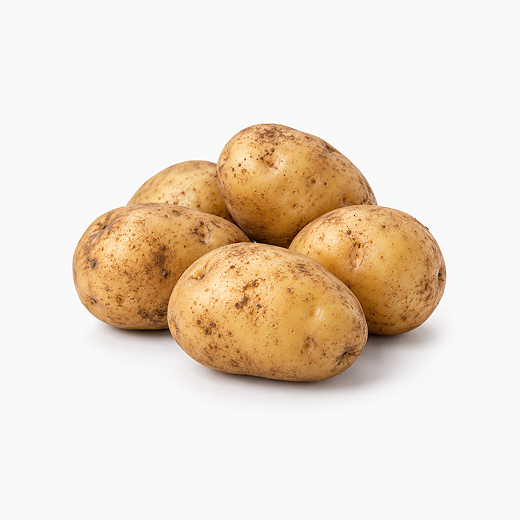
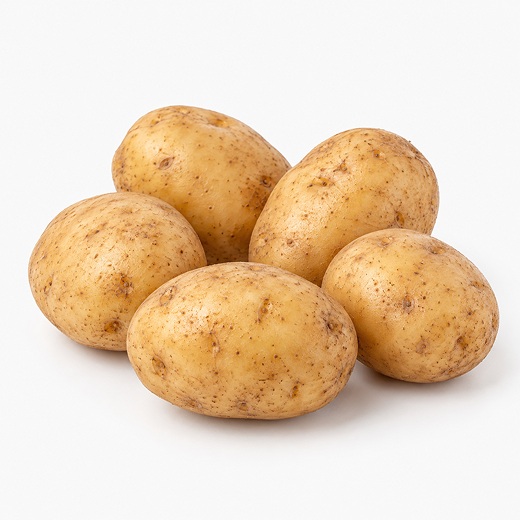
Add selected Figma food photos and image mappings

diff --git a/src/features/produce/produce-images.ts b/src/features/produce/produce-images.ts
@@ -29,6 +29,28 @@ const produceImages: Record<string, number> = {
   딸기: require("../../../assets/images/food/딸기.png"),
   브로콜리: require("../../../assets/images/food/브로콜리.png"),
   상추: require("../../../assets/images/food/상추.png"),
+  양파: require("../../../assets/images/food/양파.png"),
+  마늘: require("../../../assets/images/food/마늘.png"),
+  파: require("../../../assets/images/food/파.png"),
+  배추: require("../../../assets/images/food/배추.png"),
+  열무: require("../../../assets/images/food/열무.png"),
+  멜론: require("../../../assets/images/food/멜론.png"),
+  파프리카: require("../../../assets/images/food/파프리카.png"),
+  부추: require("../../../assets/images/food/부추.png"),
+  갓: require("../../../assets/images/food/갓.png"),
+  오이: require("../../../assets/images/food/오이.png"),
+  무: require("../../../assets/images/food/무.png"),
+  호박: require("../../../assets/images/food/호박.png"),
+  생강: require("../../../assets/images/food/생강.png"),
+  고추: require("../../../assets/images/food/고추.png"),
+  참외: require("../../../assets/images/food/참외.png"),
+  미나리: require("../../../assets/images/food/미나리.png"),
+  수박: require("../../../assets/images/food/수박.png"),
+  고구마: require("../../../assets/images/food/고구마.png"),
+  토마토: require("../../../assets/images/food/토마토.png"),
+  방울토마토: require("../../../assets/images/food/방울토마토.png"),
+  시금치: require("../../../assets/images/food/시금치.png"),
+  가지: require("../../../assets/images/food/가지.png"),
 };
 
 /** 사진이 없는 품목이면 undefined 를 돌려줍니다. */
